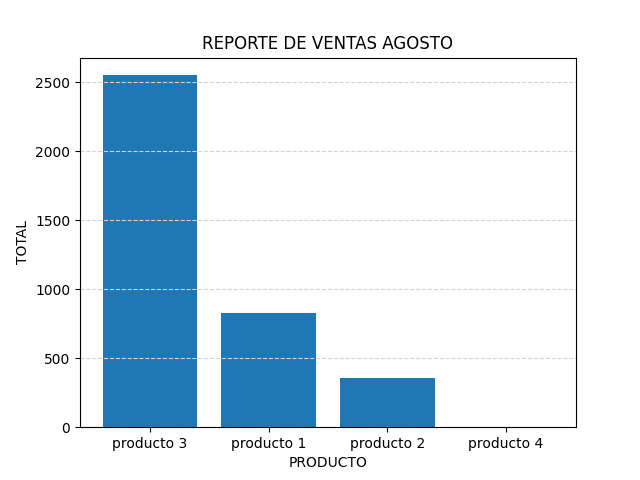
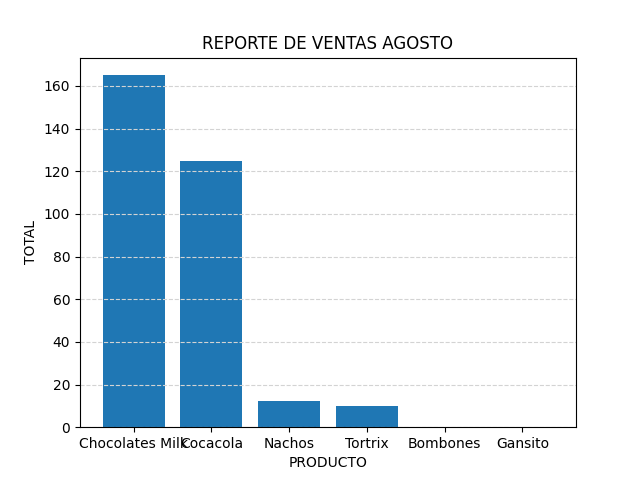
eliminacion de codigo comentado y archivos no utlizados

diff --git a/1_Proyecto/LFP_PR_201906795.js b/1_Proyecto/LFP_PR_201906795.js
@@ -11,18 +11,18 @@ bottomvendido = document.getElementById("bottomvendido");
 //Tabla 
 tablacuerpo = document.getElementById("tablacuerpo");// Producto TOP
 
-topnombre.innerHTML = 'producto 3' 
-topcantidad.innerHTML =  170 
-topprecio.innerHTML = 'Q '+15.0 
-topvendido.innerHTML = 'Q '+ 2550.0
+topnombre.innerHTML = 'Chocolates Milk' 
+topcantidad.innerHTML =  22 
+topprecio.innerHTML = 'Q '+7.5 
+topvendido.innerHTML = 'Q '+ 165.0
 // Producto Menos Vendido
 
-bottomnombre.innerHTML = 'producto 4' 
+bottomnombre.innerHTML = 'Gansito' 
 bottomcantidad.innerHTML = 0 
-bottomprecio.innerHTML = 'Q '+50.0 
+bottomprecio.innerHTML = 'Q '+5.25 
 bottomvendido.innerHTML  = 'Q '+0.0
 //Tabla
-var listaproductos = [{nombre:'producto 3',cantidad:170,precio:15.0,cantidad:170,ventas:2550.0},{nombre:'producto 1',cantidad:33,precio:25.0,cantidad:33,ventas:825.0},{nombre:'producto 2',cantidad:10,precio:35.75,cantidad:10,ventas:357.5},{nombre:'producto 4',cantidad:0,precio:50.0,cantidad:0,ventas:0.0},]
+var listaproductos = [{nombre:'Chocolates Milk',cantidad:22,precio:7.5,cantidad:22,ventas:165.0},{nombre:'Cocacola',cantidad:25,precio:5.0,cantidad:25,ventas:125.0},{nombre:'Nachos',cantidad:5,precio:2.5,cantidad:5,ventas:12.5},{nombre:'Tortrix',cantidad:10,precio:1.0,cantidad:10,ventas:10.0},{nombre:'Bombones',cantidad:0,precio:1.5,cantidad:0,ventas:0.0},{nombre:'Gansito',cantidad:0,precio:5.25,cantidad:0,ventas:0.0},]
 console.log(listaproductos)
 
 //Limpiar Tabla
